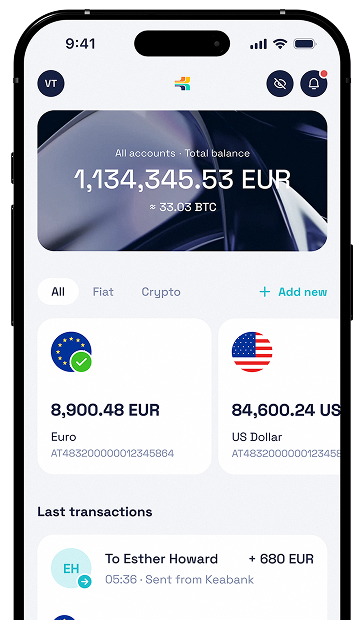
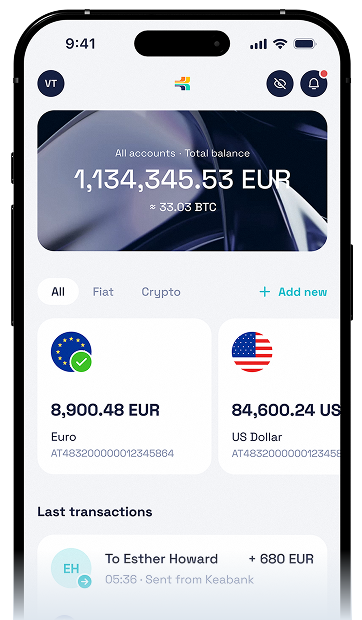
v5

diff --git a/src/css/first-screen.css b/src/css/first-screen.css
@@ -113,14 +113,14 @@
 			margin: auto;
 			border-radius: 48px;
 			background-color: var(--bg);
-			/* box-shadow: 0 24px 48px rgba(22, 26, 73, 0.16); */
+			box-shadow: 0 24px 48px rgba(22, 26, 73, 0.16);
 
 			@media $mdWidth {
 
 				width: 320px;
 				height: auto;
 				bottom: 48px;
-				/* box-shadow: 0 12px 25px rgba(22, 26, 73, 0.16); */
+				box-shadow: 0 12px 25px rgba(22, 26, 73, 0.16);
 
 			}
 

diff --git a/src/main/first-screen.html b/src/main/first-screen.html
@@ -1,6 +1,6 @@
 		<div class="first-screen">
 
-			<img class="first-screen__bg" src="/img/first-screen/bg.webp" alt="" loading="lazy" width="1920" height="820">
+			<img class="first-screen__bg" src="/img/first-screen/bg.png" alt="" loading="lazy" width="3000" height="820">
 
 			<div class="center">
 
